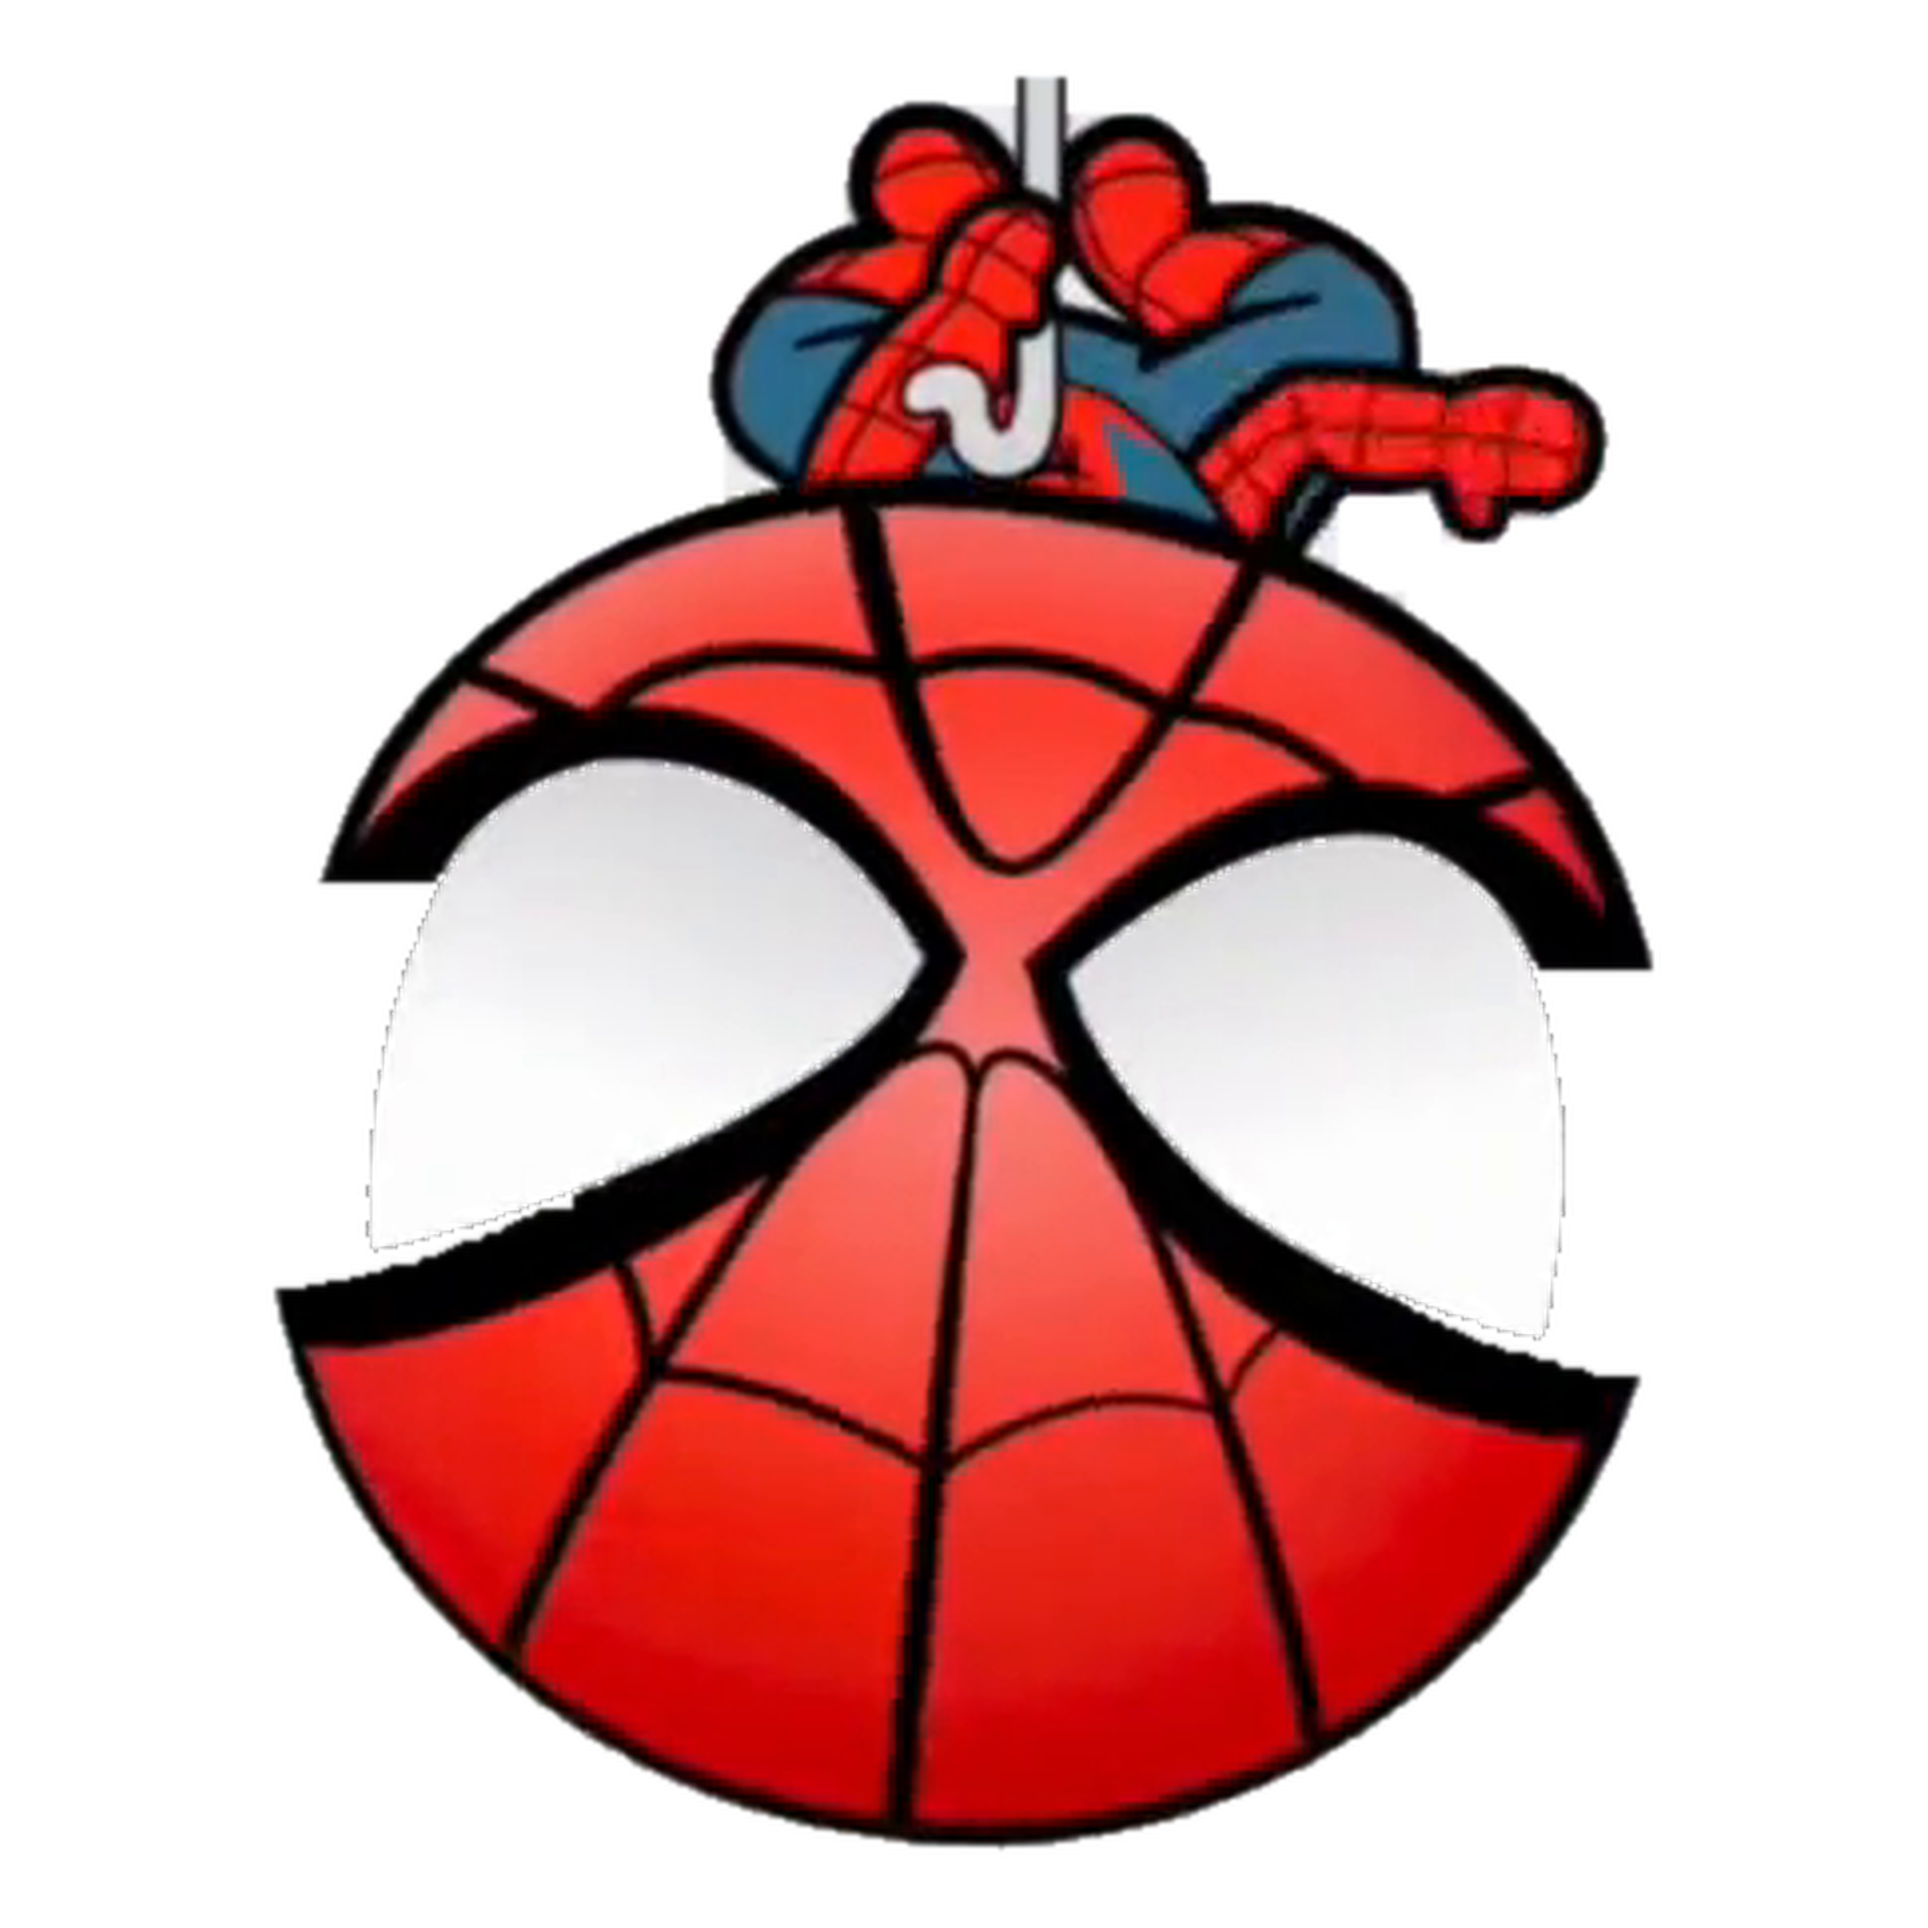
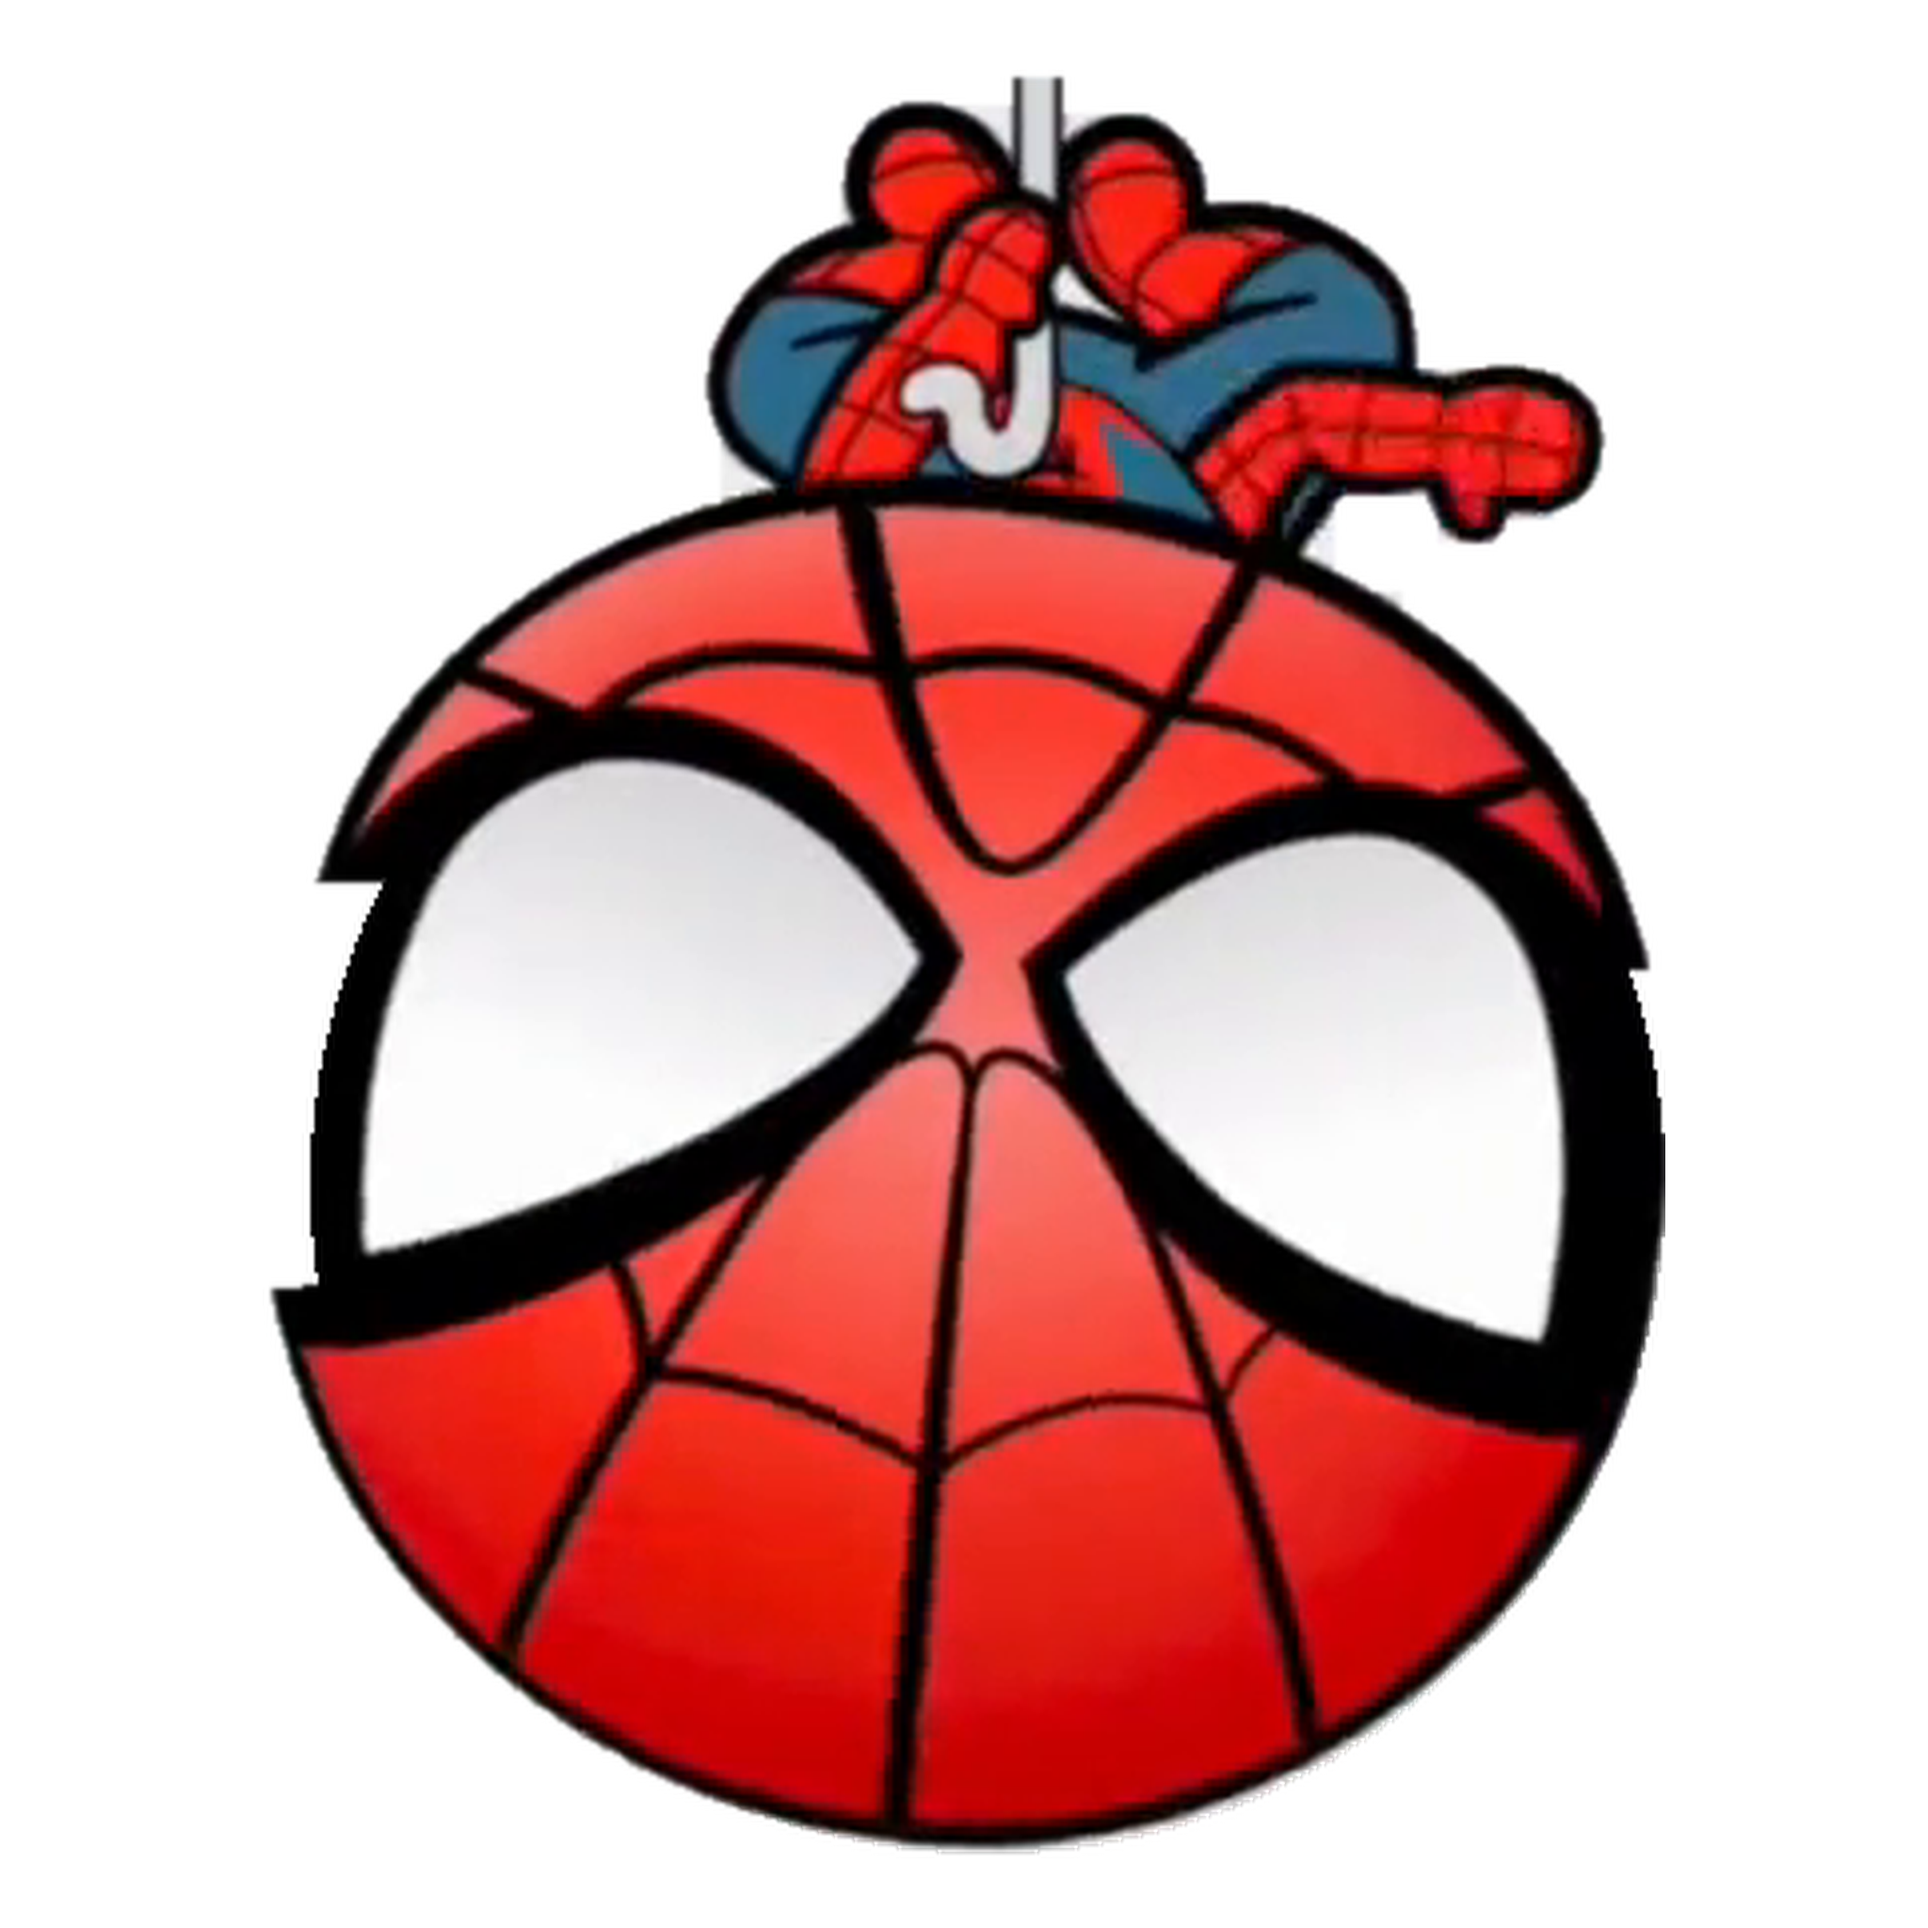
Improve character motion and heart effects

diff --git a/extension/content.js b/extension/content.js
@@ -13,7 +13,13 @@
       duration: 2650,
     },
     body: {
-      character: "assets-v2/body-character.png",
+      poses: [
+        "assets-v2/body-pose-1.png",
+        "assets-v2/body-pose-2.png",
+        "assets-v2/body-pose-3.png",
+        "assets-v2/body-pose-4.png",
+        "assets-v2/body-pose-5.png",
+      ],
       audio: "assets/body.m4a",
       duration: 3150,
     },
@@ -254,31 +260,67 @@
     return animations;
   }
 
-  function animateHeart(rig, index, duration) {
+  function animatePose(image, index, duration) {
+    const ranges = [
+      [0, .19],
+      [.16, .39],
+      [.36, .60],
+      [.57, .80],
+      [.77, 1],
+    ];
+    const [start, end] = ranges[index];
+    const fade = .018;
+    const frames = [];
+    if (start === 0) {
+      frames.push({ offset: 0, opacity: 1 });
+    } else {
+      frames.push(
+        { offset: 0, opacity: 0 },
+        { offset: Math.max(0, start - fade), opacity: 0 },
+        { offset: start, opacity: 1 },
+      );
+    }
+    frames.push({ offset: end, opacity: 1 });
+    if (end < 1) {
+      frames.push(
+        { offset: Math.min(1, end + fade), opacity: 0 },
+        { offset: 1, opacity: 0 },
+      );
+    }
+    return image.animate(frames, {
+      duration,
+      easing: "linear",
+      fill: "both",
+    });
+  }
+
+  function animateHeart(character, config, duration) {
     const heart = document.createElement("img");
     heart.src = chrome.runtime.getURL("assets-v2/heart.svg");
     heart.alt = "";
     heart.setAttribute("aria-hidden", "true");
-    const sizes = ["13%", "9%", "6.5%"];
-    const left = ["73%", "79%", "68%"];
-    const top = ["39%", "28%", "19%"];
     heart.style.cssText = [
       "position:absolute",
-      `left:${left[index]}`,
-      `top:${top[index]}`,
-      `width:${sizes[index]}`,
+      `left:${config.left}`,
+      `top:${config.top}`,
+      `width:${config.size}`,
       "height:auto",
       "pointer-events:none",
+      "z-index:20",
       "will-change:transform,opacity",
       "filter:drop-shadow(0 3px 3px rgba(60,15,45,.16))",
     ].join(";");
-    rig.append(heart);
+    character.append(heart);
+    const pop = Math.min(.96, config.start + .045);
+    const drift = Math.min(.98, config.start + .18);
+    const finish = Math.min(1, config.start + .31);
     return heart.animate([
-      { offset: 0, opacity: 0, transform: "translate(0,28px) scale(.35) rotate(-8deg)" },
-      { offset: .18 + index * .07, opacity: 0, transform: "translate(0,28px) scale(.35) rotate(-8deg)" },
-      { offset: .34 + index * .07, opacity: 1, transform: "translate(8px,0) scale(1) rotate(5deg)" },
-      { offset: .72, opacity: .95, transform: "translate(26px,-28px) scale(.9) rotate(-5deg)" },
-      { offset: 1, opacity: 0, transform: "translate(44px,-72px) scale(.55) rotate(8deg)" },
+      { offset: 0, opacity: 0, transform: "translate(-50%,-50%) scale(.08) rotate(-12deg)" },
+      { offset: config.start, opacity: 0, transform: "translate(-50%,-50%) scale(.08) rotate(-12deg)" },
+      { offset: pop, opacity: 1, transform: "translate(-50%,-50%) scale(1.08) rotate(7deg)" },
+      { offset: drift, opacity: .96, transform: `translate(calc(-50% + ${config.dx * .55}px),calc(-50% + ${config.dy * .55}px)) scale(.92) rotate(-5deg)` },
+      { offset: finish, opacity: 0, transform: `translate(calc(-50% + ${config.dx}px),calc(-50% + ${config.dy}px)) scale(.62) rotate(10deg)` },
+      { offset: 1, opacity: 0, transform: `translate(calc(-50% + ${config.dx}px),calc(-50% + ${config.dy}px)) scale(.62) rotate(10deg)` },
     ], { duration, easing: "cubic-bezier(.22,.65,.28,1)", fill: "both" });
   }
 
@@ -296,7 +338,15 @@
     const web = makeLayer("position:absolute;left:15%;top:-2%;width:70%;height:60%;pointer-events:none");
     web.append(makeWebSvg("body"));
     const character = makeLayer("position:absolute;left:14%;top:34%;width:72%;aspect-ratio:1;pointer-events:none");
-    character.append(makeCharacter(variant.character));
+    variant.poses.forEach((source, index) => {
+      const pose = makeCharacter(source);
+      pose.style.position = "absolute";
+      pose.style.inset = "0";
+      pose.style.opacity = index === 0 ? "1" : "0";
+      pose.style.zIndex = String(index + 1);
+      character.append(pose);
+      animations.push(animatePose(pose, index, variant.duration));
+    });
     rig.append(web, character);
     layer.append(rig);
 
@@ -317,8 +367,15 @@
       { transform: "rotate(-2deg) translateY(0)" },
     ], { duration: variant.duration, easing: "ease-in-out", fill: "both" }));
 
-    for (let index = 0; index < 3; index += 1) {
-      animations.push(animateHeart(rig, index, variant.duration));
+    const heartBursts = [
+      { start: .34, left: "69%", top: "49%", size: "9%", dx: 62, dy: -86 },
+      { start: .43, left: "75%", top: "44%", size: "6.5%", dx: 82, dy: -112 },
+      { start: .51, left: "79%", top: "41%", size: "11%", dx: 108, dy: -96 },
+      { start: .60, left: "80%", top: "40%", size: "7.5%", dx: 126, dy: -132 },
+      { start: .68, left: "78%", top: "40%", size: "5.5%", dx: 102, dy: -158 },
+    ];
+    for (const heart of heartBursts) {
+      animations.push(animateHeart(character, heart, variant.duration));
     }
     return animations;
   }

diff --git a/scripts/build_layered_assets.py b/scripts/build_layered_assets.py
@@ -12,7 +12,7 @@ from collections import deque
 from pathlib import Path
 
 import numpy as np
-from PIL import Image, ImageFilter
+from PIL import Image, ImageDraw, ImageFilter
 
 
 ROOT = Path(__file__).resolve().parents[1]
@@ -28,6 +28,7 @@ ASSETS = {
         "crop": (145, 165, 570, 680),
         "max_size": (1740, 1900),
         "eye_boxes": ((35, 130, 225, 370), (195, 130, 405, 370)),
+        "face_ellipse": (43, 128, 382, 463),
     },
     "body-character": {
         "file": "body-reference.png",
@@ -36,6 +37,44 @@ ASSETS = {
         "eye_boxes": ((35, 75, 245, 325), (195, 80, 380, 325)),
     },
 }
+
+BODY_POSES = tuple(
+    REFERENCE_DIR / "body-poses" / f"pose-{index}.png" for index in range(1, 6)
+)
+
+
+def largest_component(mask: np.ndarray) -> np.ndarray:
+    """Keep the character while discarding detached hearts and video marks."""
+    height, width = mask.shape
+    visited = np.zeros_like(mask, dtype=bool)
+    largest: list[tuple[int, int]] = []
+
+    for start_y, start_x in zip(*np.nonzero(mask & ~visited)):
+        if visited[start_y, start_x]:
+            continue
+        queue: deque[tuple[int, int]] = deque([(int(start_y), int(start_x))])
+        visited[start_y, start_x] = True
+        component: list[tuple[int, int]] = []
+        while queue:
+            y, x = queue.popleft()
+            component.append((y, x))
+            for ny, nx in ((y - 1, x), (y + 1, x), (y, x - 1), (y, x + 1)):
+                if (
+                    0 <= ny < height
+                    and 0 <= nx < width
+                    and mask[ny, nx]
+                    and not visited[ny, nx]
+                ):
+                    visited[ny, nx] = True
+                    queue.append((ny, nx))
+        if len(component) > len(largest):
+            largest = component
+
+    result = np.zeros_like(mask, dtype=bool)
+    if largest:
+        ys, xs = zip(*largest)
+        result[np.asarray(ys), np.asarray(xs)] = True
+    return result
 
 
 def fill_holes(mask: np.ndarray) -> tuple[np.ndarray, np.ndarray]:
@@ -124,7 +163,9 @@ def enclosed_bright_regions(
 def isolate_character(
     source: Image.Image,
     crop: tuple[int, int, int, int],
-    eye_boxes: tuple[tuple[int, int, int, int], ...],
+    eye_boxes: tuple[tuple[int, int, int, int], ...] = (),
+    face_ellipse: tuple[int, int, int, int] | None = None,
+    keep_largest: bool = False,
 ) -> Image.Image:
     image = source.convert("RGB").crop(crop)
     pixels = np.asarray(image, dtype=np.float32)
@@ -147,6 +188,9 @@ def isolate_character(
     coloured_edge = saturation > 15
     initial = support & (dark_outline | coloured_edge)
 
+    if keep_largest:
+        initial = largest_component(initial)
+
     closed = Image.fromarray(initial.astype(np.uint8) * 255)
     closed = closed.filter(ImageFilter.MaxFilter(17)).filter(ImageFilter.MinFilter(17))
     solid, holes = fill_holes(np.asarray(closed) > 0)
@@ -158,7 +202,17 @@ def isolate_character(
     )
     alpha = np.asarray(matte, dtype=np.uint8).copy()
     alpha[holes] = 255
-    alpha[enclosed_bright_regions(pixels, eye_boxes)] = 255
+
+    if face_ellipse:
+        # Preserve the exact source pixels across the whole mask interior. The
+        # eyes and their black rims therefore remain registered to the mask,
+        # instead of being reconstructed as independent white shapes.
+        face_mask = Image.new("L", image.size)
+        ImageDraw.Draw(face_mask).ellipse(face_ellipse, fill=255)
+        alpha = np.maximum(alpha, np.asarray(face_mask, dtype=np.uint8))
+    else:
+        if eye_boxes:
+            alpha[enclosed_bright_regions(pixels, eye_boxes)] = 255
 
     rgba = np.dstack((pixels.astype(np.uint8), alpha))
     cutout = Image.fromarray(rgba, "RGBA")
@@ -217,11 +271,29 @@ def main() -> None:
 
     for name, config in ASSETS.items():
         reference = Image.open(REFERENCE_DIR / config["file"])
-        isolated = isolate_character(reference, config["crop"], config["eye_boxes"])
+        isolated = isolate_character(
+            reference,
+            config["crop"],
+            config["eye_boxes"],
+            face_ellipse=config.get("face_ellipse"),
+        )
         result = fit_to_canvas(isolated, config["max_size"])
         output = OUTPUT_DIR / f"{name}.png"
         result.save(output, optimize=True)
         composite_preview(result, PREVIEW_DIR / f"{name}.jpg")
+        print(f"{output.relative_to(ROOT)}: {output.stat().st_size:,} bytes")
+
+    for index, reference_path in enumerate(BODY_POSES, start=1):
+        reference = Image.open(reference_path)
+        isolated = isolate_character(
+            reference,
+            (0, 0, reference.width, reference.height),
+            keep_largest=True,
+        )
+        result = fit_to_canvas(isolated, (1680, 1820))
+        output = OUTPUT_DIR / f"body-pose-{index}.png"
+        result.save(output, optimize=True)
+        composite_preview(result, PREVIEW_DIR / f"body-pose-{index}.jpg")
         print(f"{output.relative_to(ROOT)}: {output.stat().st_size:,} bytes")
 
     write_heart_svg()

diff --git a/README.md b/README.md
@@ -2,7 +2,7 @@
 
 在网页搜索框、评论区、文本框或其他可编辑区域中输入 `mj`，扩展会随机播放两种高清卡通蜘蛛侠摆荡特效，并播放对应声音。匹配不区分大小写，输入的 `mj` 会原样保留。
 
-0.2 版使用两张 2048×2048 透明角色 PNG、独立 SVG 蛛丝和 SVG 爱心，通过 Web Animations 分层运动；不再播放从手机录屏逐帧抠出的 APNG。
+0.3 版使用 2048×2048 透明角色 PNG、全身版五个独立动作姿势、SVG 蛛丝和 SVG 爱心，通过 Web Animations 分层运动；爱心从角色右手逐颗发射，不再播放从手机录屏逐帧抠出的 APNG。
 
 ## 安装到 Edge
 
@@ -35,7 +35,7 @@
 ```text
 extension/              可直接加载到 Edge 的扩展
   assets/               两种对应音频
-  assets-v2/            2K 透明角色和 SVG 爱心
+  assets-v2/            2K 透明角色、多姿势动作帧和 SVG 爱心
   icons/                扩展图标
   lib/detector.js       mj 匹配规则
   content.js            输入监听与动效播放

diff --git a/SPEC.md b/SPEC.md
@@ -100,13 +100,14 @@
 
 ## 6. 素材处理方案
 
-### 6.1 当前 0.2 版实现
+### 6.1 当前 0.3 版实现
 
 - 使用 `sample/sample_better.mp4` 中的高清画面作为重制参考。
-- 大头倒挂版与全身版分别使用 2048×2048 透明 PNG 角色层。
+- 大头倒挂版使用完整面罩内层，白色眼片与黑色眼框保持素材原始配准。
+- 全身版使用五张 2048×2048 透明姿势图，按样例动作阶段切换。
 - 原视频中的灰色背景、水印和大部分原始绳线不进入网页覆盖层。
 - 蛛丝由扩展运行时使用内联 SVG 绘制。
-- 全身版的三颗粉色爱心使用独立 SVG，并与角色分层运动。
+- 全身版的粉色爱心使用独立 SVG，在对应伸手姿势中从右手指尖连续发射。
 - 入场、摆荡、细微晃动和退场均由 Web Animations 实现，不再使用逐帧 APNG。
 
 ### 6.2 原始素材恢复原则
